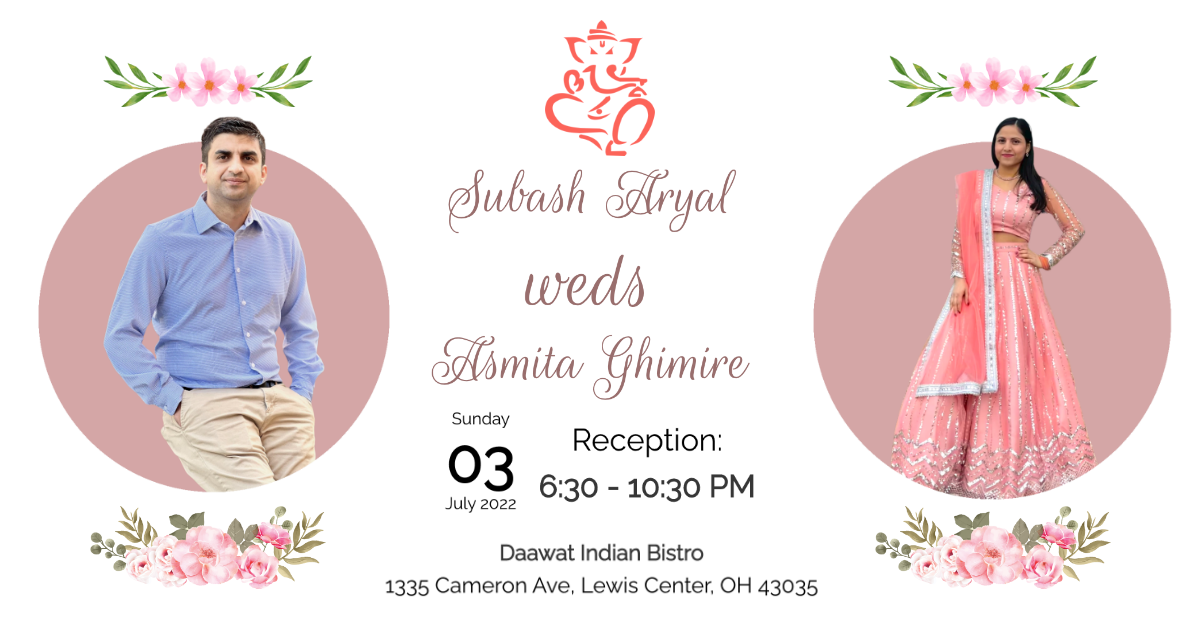
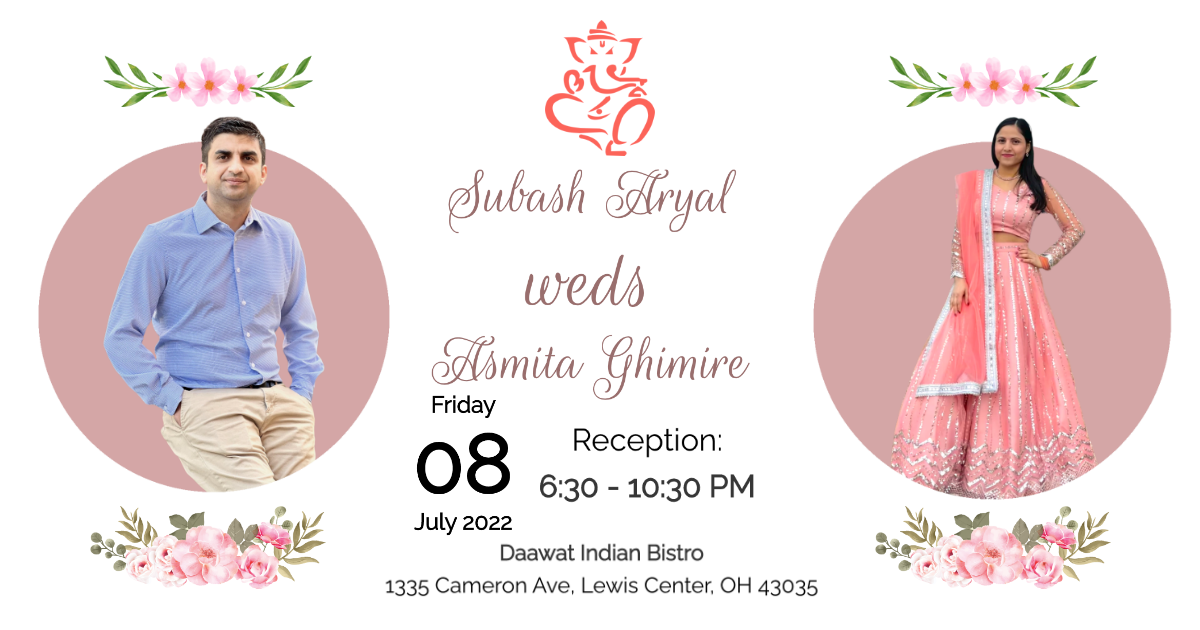
changes

Changed region(s): [[0.3392, 0.6333, 0.4317, 0.8444]]

diff --git a/index.html b/index.html
@@ -7,8 +7,8 @@
     <meta name="viewport" content="width=device-width, initial-scale=1" />
     <title>Subash weds Asmita</title>
 
-    <meta property="og:title" content="Subash & Asmita's Wedding Reception RSVP - 03 July 2022">
-    <meta property="og:description" content="Subash & Asmita's Wedding Reception RSVP - 03 July 2022">
+    <meta property="og:title" content="Subash & Asmita's Wedding Reception RSVP - 08 July 2022">
+    <meta property="og:description" content="Subash & Asmita's Wedding Reception RSVP - 08 July 2022">
     <meta property="og:locale" content="id_ID" />
     <meta property="og:image" content="https://susanaryal.github.io/subashwedsasmita/image/thumbnail.png">
     <meta property="og:url" content="https://susanaryal.github.io/subashwedsasmita/index.html">
@@ -100,7 +100,7 @@
             <h2 class="title">Subash </br> & </br> Asmita</h2>
             <h4 class="subtitle tempatwaktu">
               
-                Sunday, 03 July 2022
+                Friday, 08 July 2022
                 </br>
                 Daawat Indian Bistro
                 </br>
@@ -128,7 +128,7 @@
               var year = now.getFullYear() + 1;
           
               var nextyear = month + '/' + day + '/' + year + ' 07:07:07';
-              var harih = '07/03/2022 00:00:01';
+              var harih = '07/8/2022 00:00:01';
 
               $('#hitungmundur').countdown({
                 date: harih, // TODO Date format: 07/27/2017 17:00:00
@@ -242,9 +242,9 @@
               class="column is-4 has-vertically-aligned-content">
             
               <p class="is-larger has-text-centered">
-                  <div class="waktu tanggal-hari has-text-centered">Sunday</div> 
-                  <div class="waktu tanggal-angka has-text-centered">03</div>
-                  <div class="waktu tanggal-bulan has-text-centered">July 2022</div>
+                  <div class="waktu tanggal-hari has-text-centered"><b>Friday</b></div> 
+                  <div class="waktu tanggal-angka has-text-centered">08</div>
+                  <div class="waktu tanggal-bulan has-text-centered"><b>July 2022</b></div>
               </p>
             
             </div>
